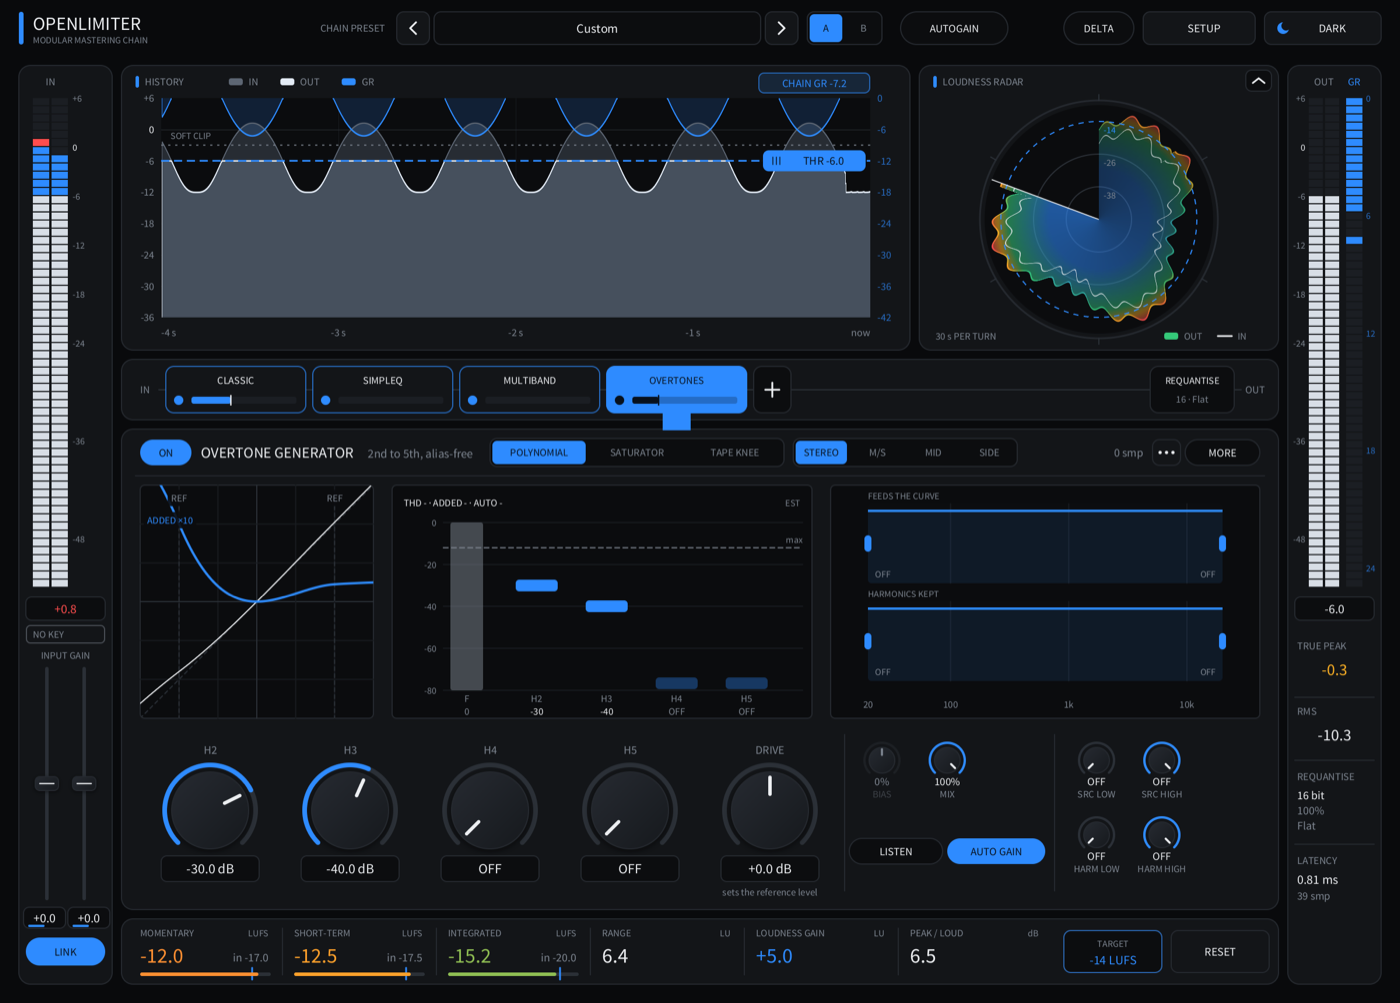
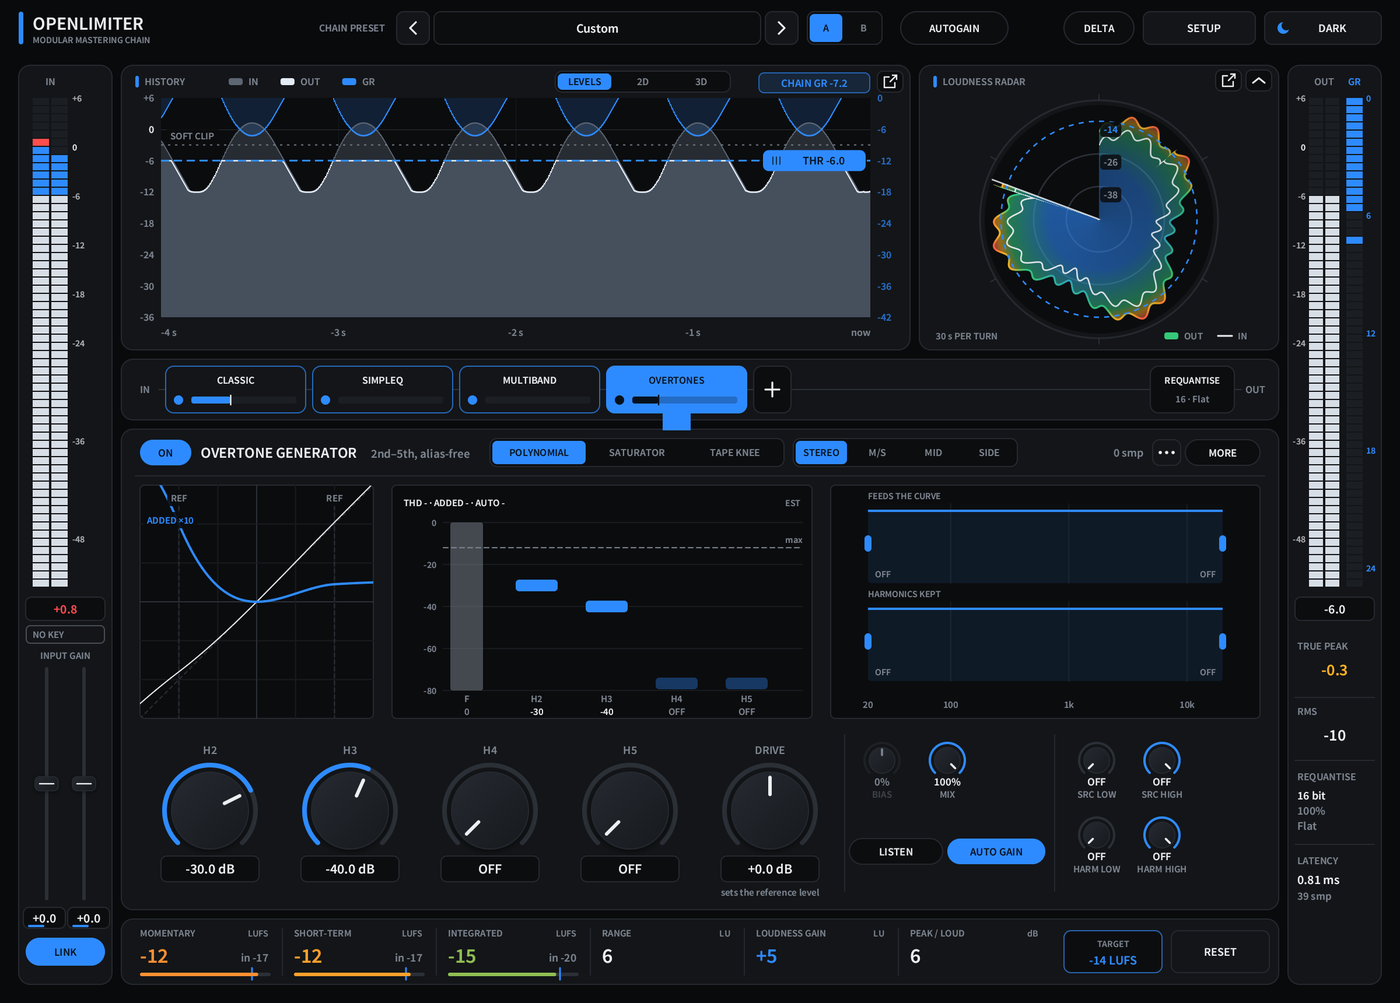
1.0.2-Beta docs: pop-out windows, History views and rack clicks in the manual; new screenshots; changelog, release notes, README, third-party list

diff --git a/RELEASE_NOTES.md b/RELEASE_NOTES.md
@@ -1,4 +1,4 @@
-# OpenLimiter 1.0.1-Beta
+# OpenLimiter 1.0.2-Beta
 
 The first public release of OpenLimiter, a modular mastering chain by OpenGrid:
 seventeen modules you switch on, order and set in one plugin, ending in a
@@ -9,9 +9,9 @@ printed. This is a beta.
 
 | Download | System | Formats |
 |---|---|---|
-| `OpenLimiter-1.0.1-Beta-macos.pkg` | macOS 11 or later, Apple silicon and Intel (universal) | VST3, Audio Unit, CLAP, LV2, AAX |
-| `OpenLimiter-1.0.1-Beta-windows-x64-setup.exe` | Windows 10 or later, x64 | VST3, CLAP |
-| `OpenLimiter-1.0.1-Beta-linux-x86_64.tar.gz` | Linux x86_64 | CLAP, LV2 (no editor) |
+| `OpenLimiter-1.0.2-Beta-macos.pkg` | macOS 11 or later, Apple silicon and Intel (universal) | VST3, Audio Unit, CLAP, LV2, AAX |
+| `OpenLimiter-1.0.2-Beta-windows-x64-setup.exe` | Windows 10 or later, x64 | VST3, CLAP |
+| `OpenLimiter-1.0.2-Beta-linux-x86_64.tar.gz` | Linux x86_64 | CLAP, LV2 (no editor) |
 
 ## Install
 
@@ -29,35 +29,37 @@ printed. This is a beta.
   Peak, Compressor / De-esser, Final Wall, Multiband, PrecisionEQ, DynEQ,
   Suppressor, Harmonic Compressor, Dynamics Restore, Floor Lifter, Overtone
   Generator and Smart Limiter, in any order, then Requantise.
-- Input and output meters, true peak, RMS, BS.1770 loudness, history and
-  loudness radar.
+- Input and output meters, true peak, RMS, BS.1770 loudness, a history
+  (levels, spectrogram or waterfall) and a loudness radar, both of which open in
+  their own resizable windows.
 - Autogain and Delta listening aids. Switch both off before printing.
 - External sidechain for modules with a key, A/B, factory presets, four themes.
 
 ## Checks
 
-- macOS: auval passes; pluginval at strictness 10 passes for VST3 (three runs, and once with
-  the editor) and Audio Unit; clap-validator 34 passed, 0 failed; Avid's AAX Validator 13
-  passed, 0 failed (the DSP cycle count needs HDX hardware and was skipped).
-- REAPER (macOS): VST3, CLAP and LV2 load, render, open the editor and keep their state
-  through save and reopen.
-- Windows and Linux: the plugin's 73 tests pass on each in GitHub Actions; the binaries
-  import only system libraries and export their format's entry points.
-- Details: `qa/2026-11-23-release-1.0.0-beta/ledger.md` in the repository.
+- macOS: auval passes; pluginval at strictness 10 passes for VST3, with and without the editor
+  tests; clap-validator 34 passed, 0 failed; Avid's AAX Validator: AAX_RESULT.
+- REAPER (macOS, VST3): loads, renders finite and repeatable audio, every tested parameter
+  changes the sound and the editor, state survives save and reopen, the editor survives five
+  close and open cycles; a sweep of all 1985 parameters found none dead.
+- OpenGrid9 (macOS): VST3 and Audio Unit keep all of their values through save and reopen;
+  LV2 loads.
+- Windows and Linux: the plugin's tests pass on each in GitHub Actions.
+- Details: `qa/2026-11-24-qa-editor-sdk/ledger.md` in the repository.
 
 ## Known limits
 
 - No listening review has been done yet.
-- Some readouts can show "-0.0".
 - Linux has no editor; the host shows its own controls.
 - Windows has no LV2 and no AAX.
 - The Windows and Linux builds are made by GitHub Actions and have only been
   through the automated tests, not a host.
+- The pop-out windows have been tried in a host on macOS only.
 
 ## Files
 
-- `OpenLimiter-1.0.1-Beta-macos.pkg` and `.sha256`
-- `OpenLimiter-1.0.1-Beta-windows-x64-setup.exe` and `.sha256`
-- `OpenLimiter-1.0.1-Beta-linux-x86_64.tar.gz` and `.sha256`
-- `OpenLimiter-1.0.1-Beta-User-Manual.pdf`
+- `OpenLimiter-1.0.2-Beta-macos.pkg` and `.sha256`
+- `OpenLimiter-1.0.2-Beta-windows-x64-setup.exe` and `.sha256`
+- `OpenLimiter-1.0.2-Beta-linux-x86_64.tar.gz` and `.sha256`
+- `OpenLimiter-1.0.2-Beta-User-Manual.pdf`
 - `opengrid-manifest.json`

diff --git a/docs/USER_MANUAL.md b/docs/USER_MANUAL.md
@@ -2,7 +2,7 @@
 
 OpenLimiter is a modular mastering chain by OpenGrid: seventeen processing modules that you switch on, order and set in one plug-in, followed by a word-length stage (Requantise). It is built to be the last plug-in before the master is printed, so it has no output gain after its limiters.
 
-Version 1.0.1 Beta. This is a beta: the processing has been measured and tested, but it has not yet had a full listening review. Report anything that sounds wrong.
+Version 1.0.2 Beta. This is a beta: the processing has been measured and tested, but it has not yet had a full listening review. Report anything that sounds wrong.
 
 ![OpenLimiter, Classic Limiter page](images/limiter.png)
 
@@ -36,8 +36,11 @@ Autogain and Delta change what leaves the plug-in. **Switch both off before you 
 ### Meters and displays
 
 - **Left rail**: input level per channel, input gain faders with their link.
-- **History**: input, output and gain reduction over the last seconds, with the threshold and the soft clip level of the page you are on.
+- **History, LEVELS** (chosen in its header): input, output and gain reduction over the last seconds, with the threshold and the soft clip level of the page you are on. Gain reduction shows each peak, then falls at 60 dB/s.
+- **History, 2D**: a spectrogram of the chain's output; time runs left to right, frequency bottom to top, level in colour.
+- **History, 3D**: a waterfall of the output spectrum, one slice per 0.2 s, smoothed to third octaves; older slices move back and fade.
 - **Loudness radar**: short-term loudness, 30 seconds per turn, output in colour and input as a line.
+- **Pop-out windows**: the pop-out button in the History and the Loudness radar headers opens that display in its own window, which you can move to another screen and resize. It stays open when you close the plug-in window, reopens where you left it, and closes with the plug-in. Click the button again (it is lit while the window is open) to close it.
 - **Right rail**: output level and gain reduction, true peak, RMS, the Requantise settings and the total latency.
 - **Bottom bar**: momentary, short-term and integrated loudness (LUFS) with the input value beside each, loudness range, loudness gain, peak to loudness ratio, and a target with its reset. Loudness and RMS read in whole numbers; true peak to a tenth.
 
@@ -50,7 +53,9 @@ The rack shows the modules in the chain, in signal order.
 - Click a module's dot to switch it on or off.
 - Click its name to open its page.
 - Drag a module to move it in the chain.
-- **+** adds a module that is not shown yet; a module can also be removed from the rack.
+- **+** adds a module that is not shown yet.
+- **Alt-click** (Option-click on macOS) a module to remove it from the rack.
+- **Cmd-click** (Ctrl-click on Windows and Linux) a module to reset its controls to their defaults; its on switch and its place in the chain stay.
 - **REQUANTISE** is fixed at the end of the chain.
 
 Each module's page has its on switch, its name, a short description, its own latency, and the **MORE** button where a module has further controls.
@@ -134,10 +139,10 @@ Default, Ceiling 0 dBFS, Ceiling -6 dBFS, Broadcast EU, Broadcast US, Soft Clip 
 ## Known limits of this beta
 
 - No listening review has been done yet.
-- Some readouts can show "-0.0".
 - Linux has no editor; the host's generic controls are used.
 - Windows has no LV2 and no AAX.
 - The Windows and Linux builds are made by automated builds and have not been tested in a host.
+- The pop-out windows have been tried in a host on macOS only.
 
 ## License
 

diff --git a/README.md b/README.md
@@ -17,14 +17,15 @@ made to be the last plugin before the master is printed.
 
 *The pictures are rendered from the plugin's own editor code.*
 
-## Version 1.0.1-Beta
+## Version 1.0.2-Beta
 
 The first public release.
 
 - Seventeen modules in one movable chain, each with its own page, plus
   Requantise (word length, dither, noise shaping) pinned at the end.
-- Input and output meters, true peak, RMS, BS.1770 loudness with a history and
-  a loudness radar.
+- Input and output meters, true peak, RMS, BS.1770 loudness, a history with
+  level, spectrogram and waterfall views, and a loudness radar; the history and
+  the radar open in their own resizable windows.
 - Autogain and Delta to hear the processing at matched loudness, or only what
   it changes.
 - External sidechain for modules with a key, lined up through the chain.
@@ -33,24 +34,24 @@ The first public release.
 ## Download
 
 **macOS 11 or later, Apple silicon and Intel:**
-[OpenLimiter-1.0.1-Beta-macos.pkg](https://github.com/MistaMin/OpenLimiter/releases/download/v1.0.1-Beta/OpenLimiter-1.0.1-Beta-macos.pkg) ·
-[User manual (PDF)](https://github.com/MistaMin/OpenLimiter/releases/download/v1.0.1-Beta/OpenLimiter-1.0.1-Beta-User-Manual.pdf)
+[OpenLimiter-1.0.2-Beta-macos.pkg](https://github.com/MistaMin/OpenLimiter/releases/download/v1.0.2-Beta/OpenLimiter-1.0.2-Beta-macos.pkg) ·
+[User manual (PDF)](https://github.com/MistaMin/OpenLimiter/releases/download/v1.0.2-Beta/OpenLimiter-1.0.2-Beta-User-Manual.pdf)
 
 The installer offers **VST3, Audio Unit, CLAP, LV2 and AAX**. It is signed with
 Developer ID and notarized by Apple, and the AAX is signed with PACE Eden for
 Pro Tools.
 
 **Windows 10 or later, x64:**
-[OpenLimiter-1.0.1-Beta-windows-x64-setup.exe](https://github.com/MistaMin/OpenLimiter/releases/download/v1.0.1-Beta/OpenLimiter-1.0.1-Beta-windows-x64-setup.exe)
+[OpenLimiter-1.0.2-Beta-windows-x64-setup.exe](https://github.com/MistaMin/OpenLimiter/releases/download/v1.0.2-Beta/OpenLimiter-1.0.2-Beta-windows-x64-setup.exe)
 installs **VST3 and CLAP** with the editor. It is not code-signed, so Windows
 may ask before running it.
 
 **Linux x86_64:**
-[OpenLimiter-1.0.1-Beta-linux-x86_64.tar.gz](https://github.com/MistaMin/OpenLimiter/releases/download/v1.0.1-Beta/OpenLimiter-1.0.1-Beta-linux-x86_64.tar.gz)
+[OpenLimiter-1.0.2-Beta-linux-x86_64.tar.gz](https://github.com/MistaMin/OpenLimiter/releases/download/v1.0.2-Beta/OpenLimiter-1.0.2-Beta-linux-x86_64.tar.gz)
 holds **CLAP and LV2** without an editor; the host shows its own controls.
 
 Checksums are on the
-[release page](https://github.com/MistaMin/OpenLimiter/releases/tag/v1.0.1-Beta).
+[release page](https://github.com/MistaMin/OpenLimiter/releases/tag/v1.0.2-Beta).
 
 This is a beta. The Windows and Linux builds are made by GitHub Actions and
 have not been tested in a host yet. There is no standalone application.

diff --git a/THIRD_PARTY_LICENSES.md b/THIRD_PARTY_LICENSES.md
@@ -7,13 +7,14 @@ carry copies of the licence texts in `Licenses/`.
 
 | Component | Used for | License |
 |---|---|---|
-| OpenPluginSDK | plugin framework; the CLAP and LV2 targets and the VST3, Audio Unit and AAX shells | MIT or Apache License 2.0 |
-| GoodLookinDri | the editor's drawing and window code (Rust, linked statically) | MIT |
+| OpenPluginSDK (openplugin-core, -dsp, -dri, -host, -targets) | plugin framework; the CLAP and LV2 targets and the VST3, Audio Unit and AAX shells | MIT or Apache License 2.0 |
+| GoodLookinDri (including goodlookindri-shell) | the editor's drawing and window code (Rust, linked statically) | MIT |
 | Source Sans Pro (Adobe) | the editor's lettering, embedded in GoodLookinDri | SIL Open Font License 1.1 (`Licenses/SourceSansPro-OFL.txt`) |
 | Rust standard library | all code | MIT or Apache License 2.0 |
 | fontdue, ttf-parser | lettering | MIT or Apache License 2.0 (fontdue also Zlib) |
 | rustfft, num-complex, num-integer, num-traits, primal-check, strength_reduce, transpose | FFTs for the linear-phase EQ and the displays | MIT or Apache License 2.0 |
-| hashbrown, ahash, allocator-api2, once_cell, cfg-if, log, memchr, itoa, serde, serde_json, zerocopy, zmij, raw-window-handle | support libraries | MIT or Apache License 2.0 (zerocopy also BSD 2-Clause, raw-window-handle also Zlib) |
+| hashbrown, ahash, allocator-api2, once_cell, cfg-if, log, memchr, itoa, serde, serde_core, serde_json, zerocopy, zmij, raw-window-handle | support libraries | MIT or Apache License 2.0 (zerocopy also BSD 2-Clause, raw-window-handle also Zlib) |
+| serde_derive, syn, quote, proc-macro2, unicode-ident | code generation for serde at build time (not in the binaries) | MIT or Apache License 2.0 (unicode-ident also Unicode-3.0) |
 | libc, bitflags, windows-sys, windows-link | system interfaces (per platform) | MIT or Apache License 2.0 |
 | x11rb, rustix, errno, linux-raw-sys, gethostname | Linux system interfaces | MIT or Apache License 2.0 (linux-raw-sys also Apache-2.0 WITH LLVM-exception) |
 | CLAP | CLAP format | MIT |

diff --git a/CHANGELOG.md b/CHANGELOG.md
@@ -1,6 +1,19 @@
 # Changelog
 
-## 1.0.1 Beta (2026-11-24)
+## 1.0.2 Beta (2026-11-24)
+
+- History and Loudness Radar open in their own resizable windows (button in each header, lit while open). They stay open when the plug-in window closes, reopen where they were, and close with the plug-in.
+- History: LEVELS, 2D (spectrogram) and 3D (waterfall of 0.2 s, third-octave smoothed slices) views of the output.
+- Loudness radar draws short-term loudness with even strokes (it zig-zagged on drums).
+- Gain reduction trace and meter: each peak, then a 60 dB/s fall, without dropping to 0 between blocks.
+- Multiband: reduction over the threshold in the accent colour; readouts rise in 50 ms and fall at 20 dB/s.
+- Rack: Alt-click (Option-click) removes a module, Cmd-click (Ctrl-click on Windows and Linux) resets its controls.
+- Knob labels no longer collide with the knobs drawn by some pages (DRIVE, the Modes gain knobs).
+- VST3: every value survives save and reopen in hosts that edit parameters right after the plug-in starts (OpenGrid9 lost up to 148).
+- Harmonic Compressor: less CPU (one contiguous delay line read; the dry alignment runs only while the dry signal is heard).
+- Windows and Linux keep preferences in %APPDATA% and the XDG config folder.
+
+## 1.0.1 Beta (2026-11-24, not published)
 
 - Editor: the analyser pages draw 20 to 100 times faster (SimplEQ 1.2 s to 15 ms a frame at Retina size, PrecisionEQ 2 s to 18 ms); long curves, fills and hatching are drawn in short pieces, and a page's moving parts are repainted in one pass.
 - Loudness (LUFS, LU) and RMS readouts show whole numbers, so they no longer flicker; true peak keeps its tenth.
